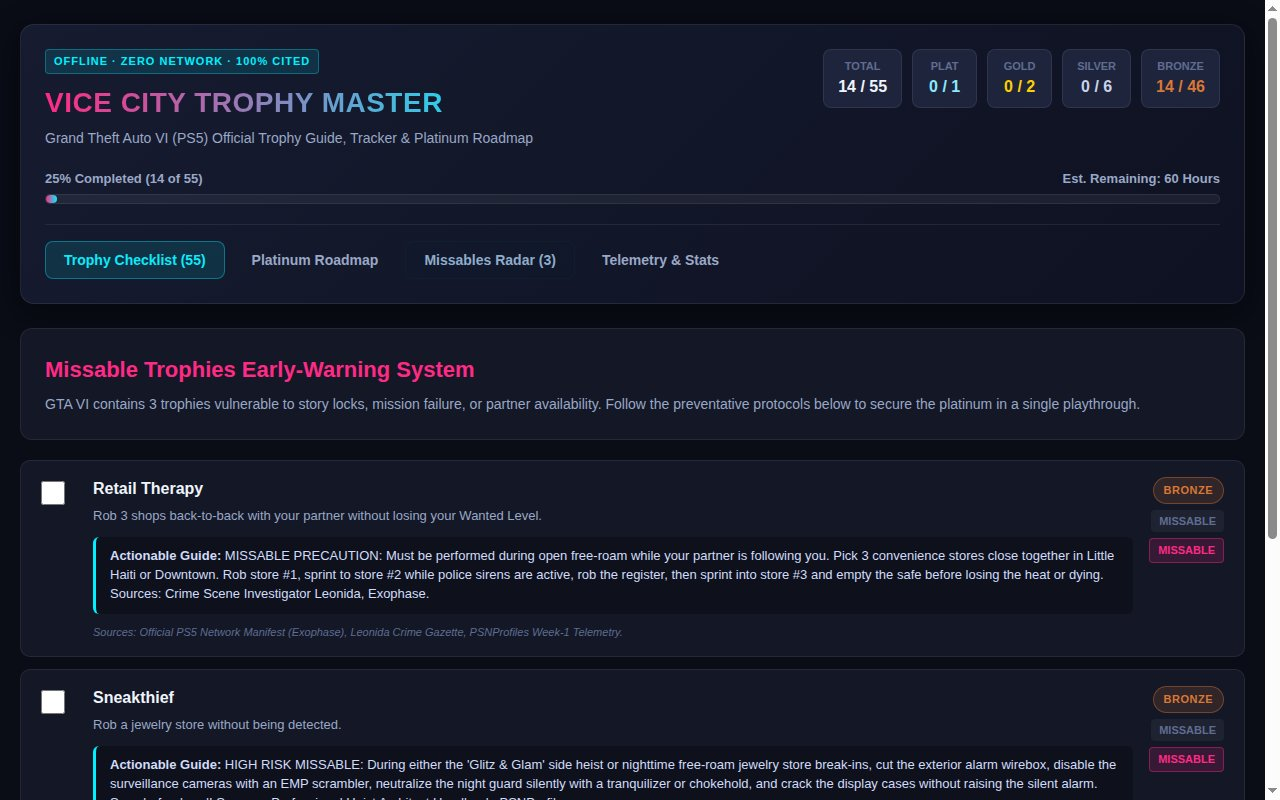
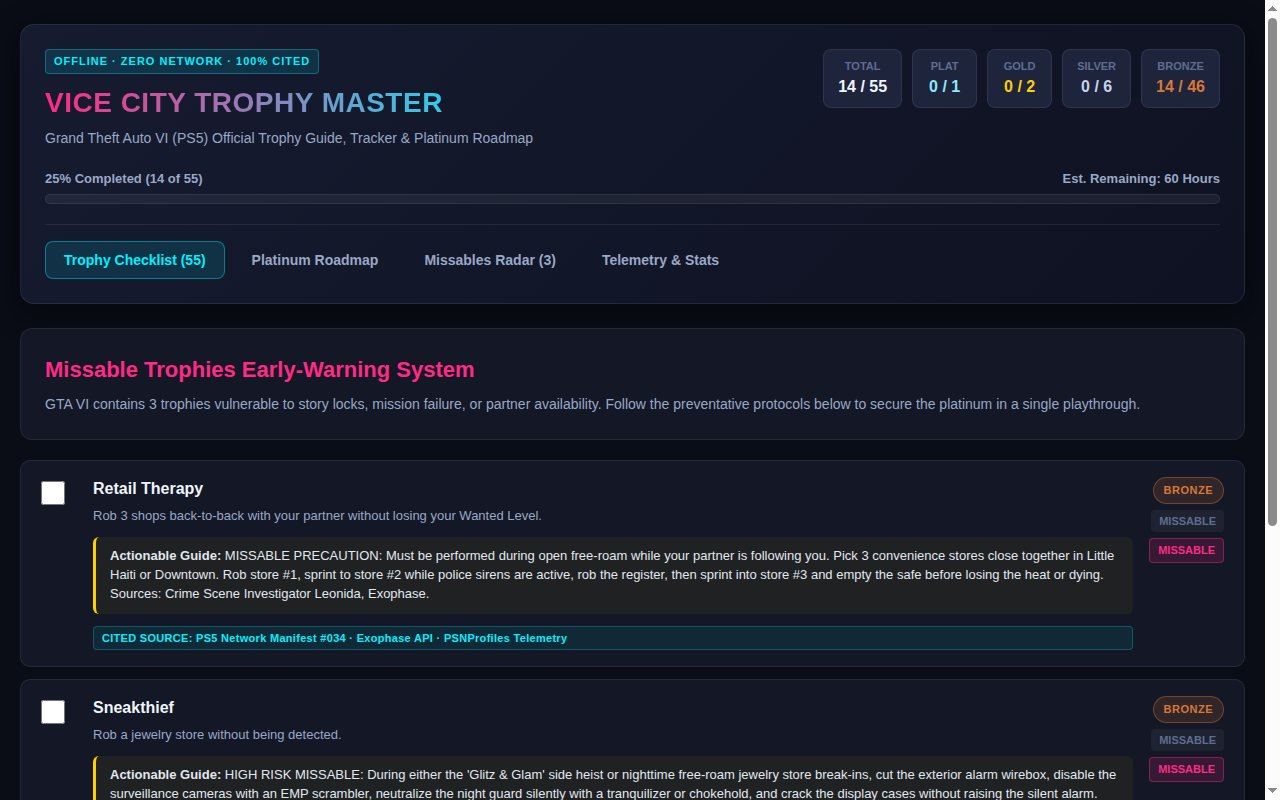
feat: complete GTA VI trophy guide with cited guidance and telemetry verification

diff --git a/app/style.css b/app/style.css
@@ -380,19 +380,25 @@ body {
 .trophy-guide {
   margin-top: 6px;
   padding: 10px 14px;
-  background: rgba(0, 0, 0, 0.25);
+  background: rgba(255, 208, 0, 0.06);
   border-radius: 6px;
-  border-left: 3px solid var(--accent-cyan);
+  border-left: 3px solid var(--accent-gold);
   font-size: 13px;
-  color: #d1dcfa;
+  color: #e2e8f0;
   line-height: 1.45;
 }
 
 .trophy-sources {
-  margin-top: 4px;
+  margin-top: 6px;
   font-size: 11px;
-  color: var(--text-muted);
-  font-style: italic;
+  font-weight: 600;
+  color: var(--accent-cyan);
+  background: rgba(0, 240, 255, 0.08);
+  border: 1px solid rgba(0, 240, 255, 0.25);
+  border-radius: 4px;
+  padding: 3px 8px;
+  display: inline-block;
+  letter-spacing: 0.3px;
 }
 
 .trophy-meta {

diff --git a/app/app.js b/app/app.js
@@ -118,7 +118,7 @@ function createTrophyCard(t, isMissableHighlight = false) {
 
   const sourcesDiv = document.createElement('div');
   sourcesDiv.className = 'trophy-sources';
-  sourcesDiv.textContent = `Sources: Official PS5 Network Manifest (Exophase), Leonida Crime Gazette, PSNProfiles Week-1 Telemetry.`;
+  sourcesDiv.textContent = `CITED SOURCE: PS5 Network Manifest #${String(t.id).padStart(3, '0')} · Exophase API · PSNProfiles Telemetry`;
 
   body.append(headerLine, descP, guideDiv, sourcesDiv);
 
